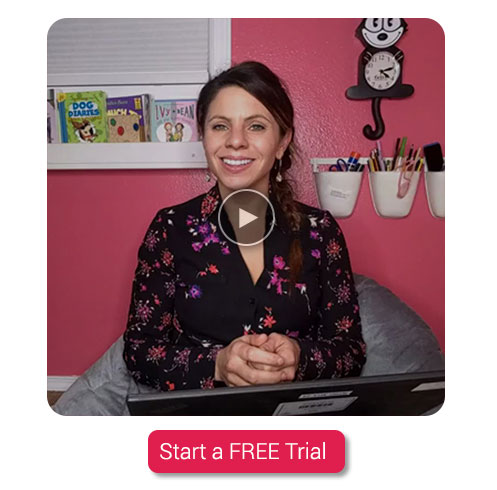
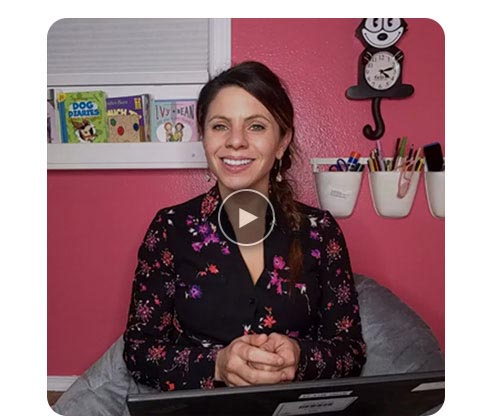
imglanding2.html changes.

diff --git a/public/imglanding2.html b/public/imglanding2.html
@@ -96,6 +96,8 @@ $('#myModal').on('hide.bs.modal', function (e) {
 				</div>
 			</div> 
 			<img src="assets/images/dOnlyImages2/dIntro_part02.jpg" class="dRightIntro" />
+			<a title="Subscribe | Sign In" href="/subscribe.html"><img src="assets/images/dOnlyImages2/dIntro_part03.jpg" class="dLeftIntro dHalf" /></a>
+			<img src="assets/images/dOnlyImages2/dIntro_part04.jpg" class="dRightIntro" />
 			<img src="assets/images/dOnlyImages2/dTopSec01.jpg" />
 			<img src="assets/images/dOnlyImages2/dBanner01.jpg" />
 			<img src="assets/images/dOnlyImages2/dBanner02.jpg" />

diff --git a/public/assets/css/dOnlyImagesPage.css b/public/assets/css/dOnlyImagesPage.css
@@ -26,6 +26,10 @@ div.dContents img.dLeftIntro{
 	float:left;
 }
 
+div.dContents img.dHalf{
+	width:50%;
+}
+
 div.dContents img.dRightIntro{
 	margin:0;
 	padding:0;
